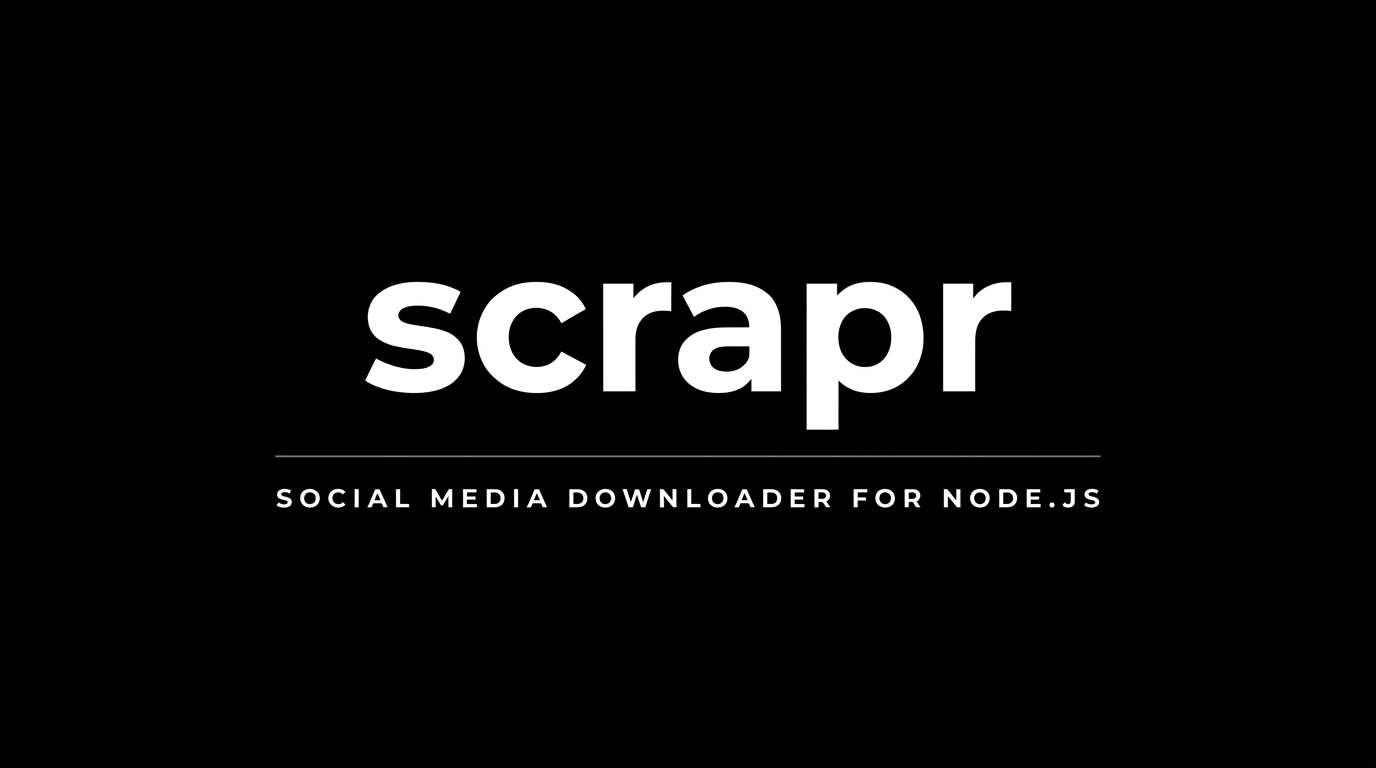
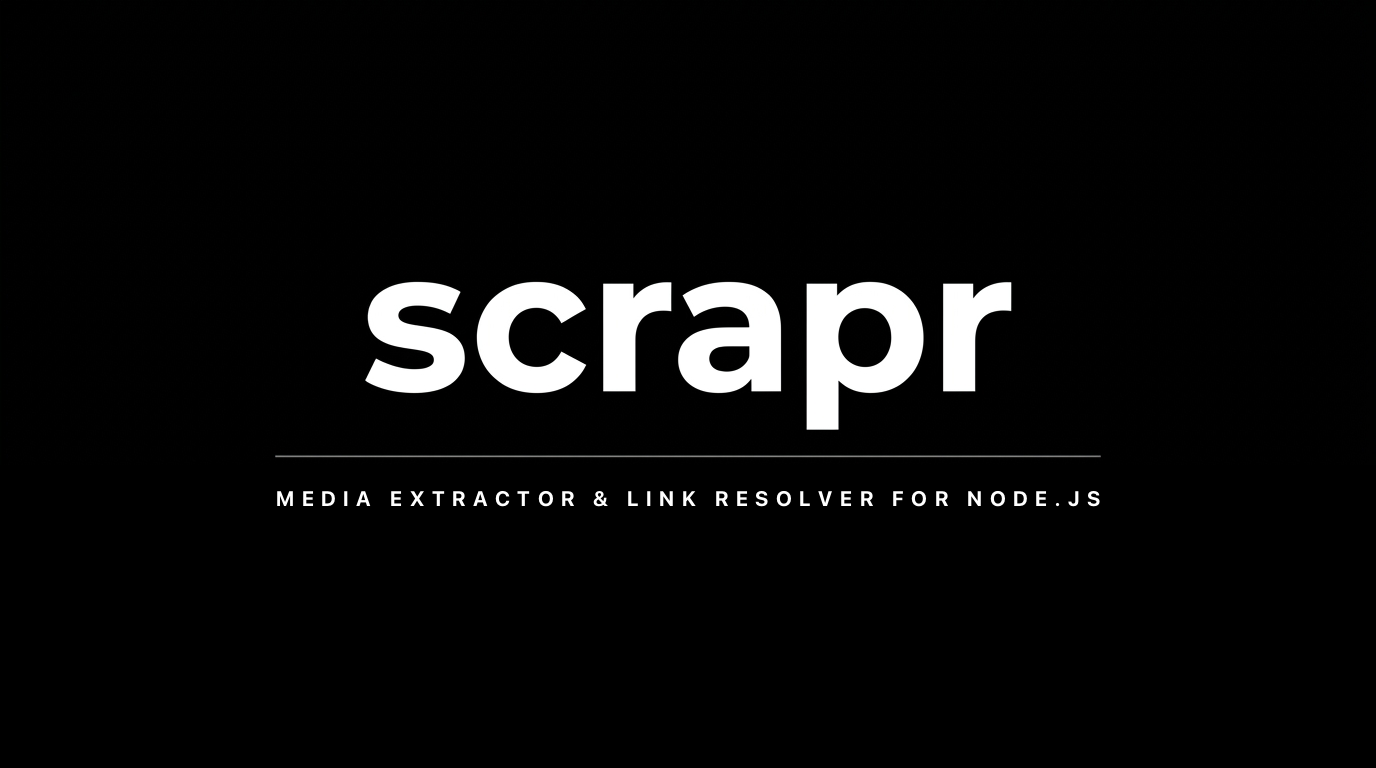
chore(release): 1.2.0

Changed region(s): [[0.1875, 0.625, 0.8125, 0.6875]]

diff --git a/test/test.js b/test/test.js
@@ -72,6 +72,22 @@ const SAMPLES = {
     url: "https://www.terabox.com/wap/share/filelist?surl=rIMSgmDoO4oZKpgQhsoeig",
     methods: ["sechno"],
   },
+  resolver: {
+    url: "https://sfile.co/IfoNMF2mJlI",
+    safelinkuUrl: "https://sfl.gl/eMeqC",
+    mediafireUrl: "https://www.mediafire.com/file/w4b1fjoijyug9qz/nix.py",
+    sub2unlockUrl: "https://sub2unlock.com/Ucdex",
+    rekoniseUrl: "https://rekonise.com/craniums-free-midi-kit-mlpp6",
+    unshortenUrl: "https://dub.sh/github",
+    methods: [
+      "sfile",
+      "safelinku",
+      "mediafire",
+      "sub2unlock",
+      "rekonise",
+      "unshorten",
+    ],
+  },
 };
 
 function validateSchema(payload) {
@@ -181,13 +197,18 @@ async function run() {
     const start = Date.now();
     let timer;
     try {
+      const timeoutLimit =
+        method === "snapinsta" || method === "rekonise" ? 25000 : 15000;
       const timeoutPromise = new Promise((_, reject) => {
-        timer = setTimeout(() => reject(new Error("Timeout (15s exceeded)")), 15000);
+        timer = setTimeout(
+          () => reject(new Error(`Timeout (${timeoutLimit / 1000}s exceeded)`)),
+          timeoutLimit,
+        );
       });
       const testUrl =
         method === "playlist" && config.playlistUrl
           ? config.playlistUrl
-          : config.url;
+          : config[method + "Url"] || config.url;
       const res = await Promise.race([fn(testUrl), timeoutPromise]);
       clearTimeout(timer);
       validateSchema(res);

diff --git a/README.md b/README.md
@@ -2,13 +2,13 @@
 
 # scrapr
 
-**Universal Social Media & Streaming Downloader for Node.js.**  
-_Extract direct MP4, MP3, and image links from TikTok, Instagram, YouTube, Spotify, Twitter/X, and 10+ platforms._
+**Universal Media Extractor & Link Resolver for Node.js.**  
+_Resolve direct media links, unshorten intermediate links, and extract downloadable streams across 20+ platforms._
 
 [![npm version](https://img.shields.io/npm/v/@coflyn/scrapr.svg?style=flat-square)](https://www.npmjs.com/package/@coflyn/scrapr)
 [![license](https://img.shields.io/badge/license-MIT-blue.svg?style=flat-square)](LICENSE)
 [![node version](https://img.shields.io/badge/node-%3E%3D%2016.x-61afef.svg?style=flat-square)](https://nodejs.org)
-[![platforms](https://img.shields.io/badge/platforms-17-brightgreen.svg?style=flat-square)](#-api-reference)
+[![platforms](https://img.shields.io/badge/platforms-23-brightgreen.svg?style=flat-square)](#-api-reference)
 [![GitHub stars](https://img.shields.io/github/stars/coflyn/scrapr?style=flat-square)](https://github.com/coflyn/scrapr/stargazers)
 [![PRs Welcome](https://img.shields.io/badge/PRs-welcome-brightgreen.svg?style=flat-square)](http://makeapullrequest.com)
 
@@ -19,7 +19,7 @@ _Extract direct MP4, MP3, and image links from TikTok, Instagram, YouTube, Spoti
 <br/>
 <br/>
 
-`TikTok` • `Instagram` • `YouTube` • `Spotify` • `Twitter / X` • `Facebook` • `SoundCloud` • `Pinterest` • `Apple Music` • `Bilibili` • `Douyin` • `Bandcamp` • `Threads` • `Pixiv` • `RedNote` • `Reddit` • `TeraBox`
+`TikTok` • `Instagram` • `YouTube` • `Spotify` • `Twitter / X` • `Facebook` • `SoundCloud` • `Pinterest` • `Apple Music` • `Bilibili` • `Douyin` • `Bandcamp` • `Threads` • `Pixiv` • `RedNote` • `Reddit` • `TeraBox` • `MediaFire` • `Sfile` • `Safelinku` • `Sub2Unlock` • `Rekonise` • `Unshorten`
 
 <br/>
 
@@ -31,7 +31,7 @@ _Extract direct MP4, MP3, and image links from TikTok, Instagram, YouTube, Spoti
 
 ---
 
-> **What is scrapr?** A media link extractor. Give it a social media or streaming URL and it returns direct downloadable links (MP4, MP3, images) with metadata. Not a general web crawler or HTML scraping toolkit.
+> **What is scrapr?** A lightweight media extractor and link resolver. Pass a social media, streaming, or shortlink URL and get direct downloadable streams (MP4, MP3, files) or destination URLs with structured metadata. Not a heavy web crawler or generic HTML scraping framework.
 
 ---
 
@@ -88,6 +88,32 @@ const { bandcamp } = require("@coflyn/scrapr");
 })();
 ```
 
+### Link Resolver (MediaFire, Sfile, Rekonise, Safelinku, Sub2Unlock, Unshorten)
+
+```javascript
+const { resolver } = require("@coflyn/scrapr");
+
+(async () => {
+  // Direct file host resolver
+  const mf = await resolver.mediafire("https://www.mediafire.com/file/w4b1fjoijyug9qz/nix.py");
+  console.log("MediaFire direct URL:", mf.result.url);
+
+  // Social unlock resolvers (auto-resolves target MediaFire/Sfile link by default)
+  const s2u = await resolver.sub2unlock("https://sub2unlock.com/Ucdex");
+  console.log("Sub2Unlock direct file:", s2u.result.url);
+
+  const rek = await resolver.rekonise("https://rekonise.com/craniums-free-midi-kit-mlpp6");
+  console.log("Rekonise unlocked URL:", rek.result.url);
+
+  // Shortlink & gateway resolvers
+  const sfl = await resolver.safelinku("https://sfl.gl/eMeqC");
+  console.log("Safelinku direct file:", sfl.result.url);
+
+  const raw = await resolver.unshorten("https://dub.sh/github");
+  console.log("Unshortened URL:", raw.result.url);
+})();
+```
+
 ### Fallback chain
 
 ```javascript
@@ -111,14 +137,14 @@ async function resolveTikTok(url) {
 
 ```js
 const scrapr = require("@coflyn/scrapr");
-const { tiktok, spotify, twitter } = require("@coflyn/scrapr");
+const { tiktok, spotify, resolver } = require("@coflyn/scrapr");
 ```
 
 ### ESM
 
 ```js
 import scrapr from "@coflyn/scrapr";
-import { tiktok, spotify } from "@coflyn/scrapr";
+import { tiktok, spotify, resolver } = require("@coflyn/scrapr");
 ```
 
 ---
@@ -218,6 +244,12 @@ For `youtube.playlist` and `bandcamp.bandcampdownloader`:
 | <img src="https://cdn.simpleicons.org/threads/000000" width="16" height="16" /> Threads        | `threads.threadster(url)`                   | threadster.app                 |
 | <img src="https://cdn.simpleicons.org/reddit/FF4500" width="16" height="16" /> Reddit          | `reddit.rapidsave(url)`                     | rapidsave.com                  |
 | <img src="https://cdn.simpleicons.org/box/0061D5" width="16" height="16" /> TeraBox           | `terabox.sechno(url)`                       | sechno.com                     |
+| Resolver (File Host & Shortlink)                                                               | `resolver.mediafire(url)`                   | mediafire.com                  |
+|                                                                                                | `resolver.sfile(url)`                       | sfile.co / sfile.mobi          |
+|                                                                                                | `resolver.sub2unlock(url, options)`         | sub2unlock.com / sub4unlock    |
+|                                                                                                | `resolver.rekonise(url, options)`           | rekonise.com                   |
+|                                                                                                | `resolver.safelinku(url, options)`          | safelinku.com / sfl.gl         |
+|                                                                                                | `resolver.unshorten(url, options)`          | universal shortlinks (dub.sh, bit.ly, etc.) |
 
 ---
 
@@ -249,6 +281,12 @@ For `youtube.playlist` and `bandcamp.bandcampdownloader`:
 | RedNote     | `direct`             | ~1-2s     | 🟢 High     | SSR state + OpenGraph parsing               |
 | Reddit      | `rapidsave`          | ~1-2s     | 🟢 High     | RapidSave video + separate audio stream     |
 | TeraBox     | `sechno`             | ~1-3s     | 🟢 High     | Direct download link + fast m3u8 streaming  |
+| Resolver    | `mediafire`          | ~0.5-1.0s | 🟢 High     | Direct MediaFire button & CDN link resolver |
+| Resolver    | `sfile`              | ~0.4-0.8s | 🟢 High     | Direct Sfile session & CDN resolver         |
+| Resolver    | `sub2unlock`         | ~0.8-1.5s | 🟢 High     | Next.js state extraction + file auto-resolve|
+| Resolver    | `rekonise`           | ~11-13s   | 🟢 High     | Action handshake + server timer compliance  |
+| Resolver    | `safelinku`          | ~2.5-4s   | 🟢 High     | Gateway API handshake & file auto-resolve   |
+| Resolver    | `unshorten`          | ~0.5-1.5s | 🟢 High     | HTTP redirection chain & file auto-resolve  |
 | Spotify     | `spotisaver`         | ~2s       | 🟢 High     | Fast signature handshake, direct MP3 stream |
 | Spotify     | `spotidown`          | ~2-3s     | 🟢 High     | Token injection, supports albums/tracks      |
 | Spotify     | `spotmate`           | ~4-6s     | 🟢 High     | Spotimate API with userverify handshake     |

diff --git a/CHANGELOG.md b/CHANGELOG.md
@@ -5,6 +5,18 @@ All notable changes to this project will be documented in this file.
 The format is based on [Keep a Changelog](https://keepachangelog.com/en/1.0.0/),
 and this project adheres to [Semantic Versioning](https://semver.org/spec/v2.0.0.html).
 
+## [1.2.0] - 2026-10-04
+
+### Added
+
+- `resolver.mediafire`: Direct MediaFire file resolver extracting filename, file size, and direct CDN download URL.
+- `resolver.sfile`: Direct Sfile (`sfile.co` / `sfile.mobi`) file resolver with session handshake and CDN download stream extraction.
+- `resolver.sub2unlock`: Sub2Unlock destination extractor parsing Next.js page state without requiring social media tasks, with default auto-resolving to direct file hosts.
+- `resolver.rekonise`: Rekonise social unlock resolver with automated action handshake and destination extraction.
+- `resolver.safelinku`: Gateway resolver for Safelinku, Semawur, and AdLinkFly networks (`sfl.gl`, `safelinku.com`, `semawur.com`, `app.khaddavi.net`) with default auto-resolving to direct file hosts.
+- `resolver.unshorten`: Universal redirection resolver tracing HTTP 301/302 location chains with auto-resolving for destination file hosts.
+- `resolver`: Added new module namespace in `scrapr` for file host resolving and link unwrapping.
+
 ## [1.1.1] - 2026-10-03
 
 ### Fixed
